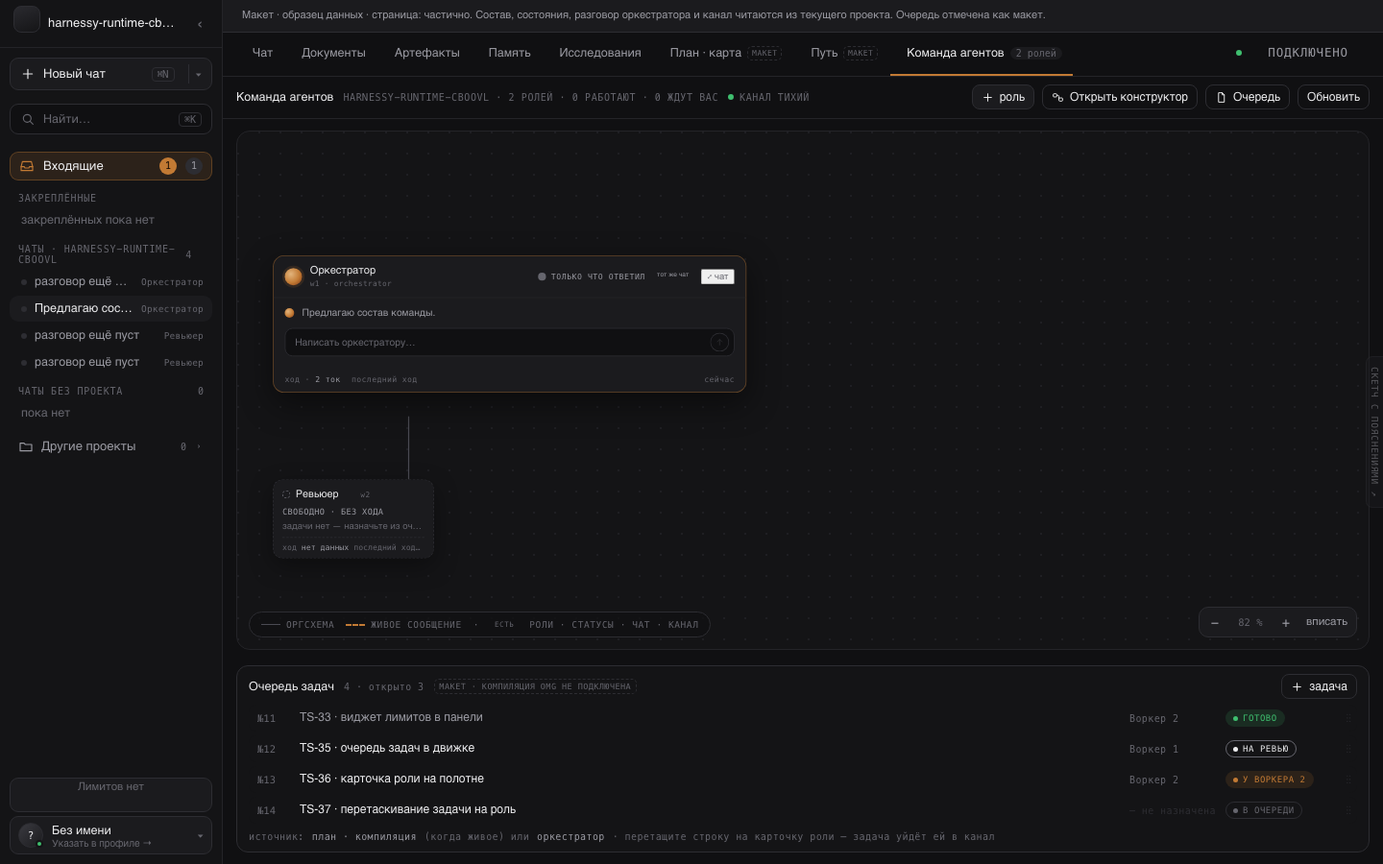
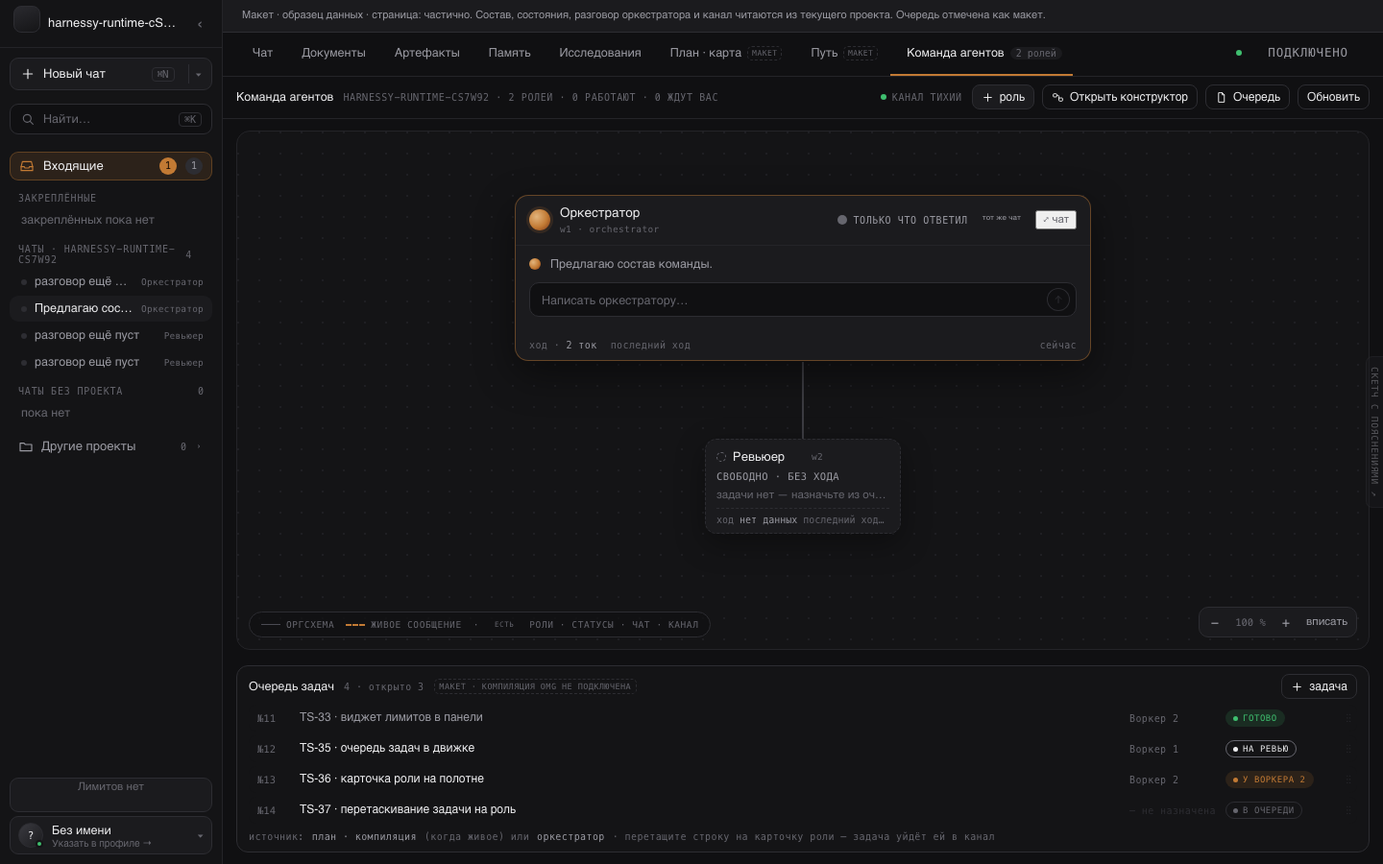
fix(ui): preserve responsive state and keyboard navigation

diff --git a/ui/deploy/cx.js b/ui/deploy/cx.js
@@ -49,11 +49,11 @@
     if(box.__cx.ta) box.__cx.ta.placeholder=p&&!isRoom(p)?'Написать: '+L.paneName(p)+'…':'Написать сообщение…'; }
   function setBusy(on){ document.querySelectorAll('.cx-go').forEach(g=>{ if(g.classList.contains('busy')===!!on) return; const p=seat();g.classList.toggle('busy',!!on); g.title=on?'Остановить · Esc':H.on&&!(p&&p.model)?'выберите модель: у разговора нет сохранённой настройки':'Отправить · Enter'; g.innerHTML=on?'<i class="sq"></i>':svg('up');
     const box=g.closest('.box'), ta=box&&box.__cx&&box.__cx.ta,state=L.composerState&&box?L.composerState(box):{hasContent:!!(ta&&ta.value.trim()),blocked:false}; g.classList.toggle('off',!on&&(!state.hasContent||state.blocked||H.on&&!(p&&p.model))); }); }
-  function renderAll(){ if(L.attachmentsDraw)L.attachmentsDraw();document.querySelectorAll('.box').forEach(b=>{ if(b.__cx){ build(b); render(b); } });if(L.operationsDraw)L.operationsDraw(); }
+  function renderAll(){const focused=document.activeElement?.closest('[data-cx]'),focusKey=focused?.dataset.cx,focusBox=focused&&(focused.closest('.box')||focused.parentElement?.nextElementSibling);if(L.attachmentsDraw)L.attachmentsDraw();document.querySelectorAll('.box').forEach(b=>{ if(b.__cx){ build(b); render(b); } });if(L.operationsDraw)L.operationsDraw();if(focusKey&&focusBox){const next=focusBox.querySelector('[data-cx="'+focusKey+'"]')||focusBox.previousElementSibling?.querySelector('[data-cx="'+focusKey+'"]');next?.focus({preventScroll:true})} }
 
   // ── всплывающая панель: одна, от чипа; поле внизу — открывается вверх; внутри переходы с «Назад»
   let pop=null, stack=[];
-  function close(){ if(pop){ if(pop.__models&&pop.__models.events)pop.__models.events.close(); pop.remove(); pop=null; stack=[]; } }
+  function close(restore=true){ if(pop){const anchor=restore?anchorEl():null;if(pop.__models&&pop.__models.events)pop.__models.events.close();pop.remove();pop=null;stack=[];anchor?.focus({preventScroll:true});} }
   function anchorEl(){ const b=pop.__box, k=pop.__key; let a=null;   // живой чип по ключу: после перерисовки строки прежний элемент уже не в документе
     if(b){ a=(b.previousElementSibling&&b.previousElementSibling.querySelector('[data-cx="'+k+'"]'))||b.querySelector('[data-cx="'+k+'"]'); }
     return a||(pop.__anchor&&pop.__anchor.isConnected?pop.__anchor:null); }
@@ -63,13 +63,23 @@
     let left=l; if(l+pw>mw-12) left=l+w-pw; left=Math.max(12,Math.min(left,mw-pw-12));
     let top=t-8-ph; if(top<12) top=t+h+8; if(top+ph>mh-12) top=Math.max(12,mh-ph-12);   // вверх от строки; не влезло — вниз; и никогда за пределы кадра
     pop.style.left=left+'px'; pop.style.top=top+'px'; }
-  function open(anchor,k){ close(); const m=anchor.closest('.main')||document.body; pop=document.createElement('div'); pop.className='cx-pop'; m.appendChild(pop); pop.__anchor=anchor; pop.__box=anchor.closest('.box')||(anchor.parentElement&&anchor.parentElement.nextElementSibling); pop.__key=anchor.dataset.cx; pop.__binding=L.sendBinding(); pop.__settingsBinding=seat()&&seat().settingsBinding&&{...seat().settingsBinding}; stack=[k]; draw(); if(k==='model')void loadModels(pop); if(k==='role'&&H.on&&L.proposalsFetch)void L.proposalsFetch(); }
+  function open(anchor,k){ close(false); const m=anchor.closest('.main')||document.body; pop=document.createElement('div'); pop.className='cx-pop'; m.appendChild(pop); pop.__anchor=anchor; pop.__box=anchor.closest('.box')||(anchor.parentElement&&anchor.parentElement.nextElementSibling); pop.__key=anchor.dataset.cx; pop.__binding=L.sendBinding(); pop.__settingsBinding=seat()&&seat().settingsBinding&&{...seat().settingsBinding}; stack=[k]; draw(); if(k==='model')void loadModels(pop); if(k==='role'&&H.on&&L.proposalsFetch)void L.proposalsFetch(); }
   function nav(k){ stack.push(k); draw(); if(k==='model')void loadModels(pop); if(k==='role'&&H.on&&L.proposalsFetch)void L.proposalsFetch(); } function back(){ stack.pop(); draw(); }
-  function draw(){ if(!pop) return; const k=stack[stack.length-1]; pop.innerHTML=(stack.length>1?'<div class="cx-hd back" data-cx-back>'+svg('back')+'<span>'+esc(TITLES[k]||'')+'</span></div>':'')+VIEWS[k](); place();
-    const f=pop.querySelector('input.cx-find'); if(f){ f.addEventListener('input',()=>filter(f)); if(f.classList.contains('cx-path'))f.addEventListener('keydown',e=>{if(e.key==='Enter'&&!e.isComposing){e.preventDefault();return submitProjectMenu(!!pop.querySelector('[data-cx-mkdir]'))}}); setTimeout(()=>f.focus(),0); } }
+  function menuItems(){if(!pop)return [];return [...pop.querySelectorAll('.cx-row,[data-cx-back],input,button,a[href]')].filter(node=>{if(node.disabled||node.classList.contains('dis'))return false;const row=node.closest('.cx-row');if(row&&row!==node)return false;for(let p=node;p&&p!==pop;p=p.parentElement){if(p.hidden||p.hasAttribute('hidden')||p.style.display==='none'||p.classList.contains('cx-sub')&&!p.parentElement.classList.contains('open'))return false}return true})}
+  const menuKey=node=>node&&JSON.stringify([node.tagName,node.dataset]);
+  function draw(){if(!pop)return;const k=stack[stack.length-1],focus=pop.contains(document.activeElement)&&pop.__view===k?menuKey(document.activeElement):null;pop.__view=k;
+    pop.innerHTML=(stack.length>1?'<div class="cx-hd back" data-cx-back>'+svg('back')+'<span>'+esc(TITLES[k]||'')+'</span></div>':'')+VIEWS[k]();pop.setAttribute('role','dialog');pop.setAttribute('aria-label',TITLES[k]||'Меню');pop.setAttribute('tabindex','-1');
+    pop.querySelectorAll('.cx-row,[data-cx-back]').forEach(node=>{if(!node.matches('button,a'))node.setAttribute('role','button');node.setAttribute('tabindex',node.disabled||node.classList.contains('dis')?'-1':'0');node.setAttribute('aria-disabled',String(!!node.disabled||node.classList.contains('dis')))});place();
+    const f=pop.querySelector('input.cx-find');if(f){f.addEventListener('input',()=>filter(f));if(f.classList.contains('cx-path'))f.addEventListener('keydown',e=>{if(e.key==='Enter'&&!e.isComposing){e.preventDefault();return submitProjectMenu(!!pop.querySelector('[data-cx-mkdir]'))}})}
+    const items=menuItems();(items.find(node=>focus&&menuKey(node)===focus)||f||items[0]||pop).focus({preventScroll:true});
+  }
   function filter(inp){ const q=inp.value.trim().toLowerCase(); pop.querySelectorAll('[data-q]').forEach(el=>{ el.style.display=!q||el.dataset.q.toLowerCase().includes(q)?'':'none'; }); if(q) pop.querySelectorAll('.cx-grp').forEach(g=>g.classList.add('open')); }
-  document.addEventListener('click',e=>{ if(pop&&!pop.contains(e.target)&&!e.target.closest('[data-cx]')) close(); },true);
-  addEventListener('keydown',e=>{ if(e.key==='Escape'&&pop) close(); });
+  document.addEventListener('click',e=>{ if(pop&&!pop.contains(e.target)&&!e.target.closest('[data-cx]')) close(false); },true);
+  addEventListener('keydown',e=>{if(!pop||e.defaultPrevented||e.isComposing)return;if(e.key==='Escape'){e.preventDefault();close();return}if(!pop.contains(e.target))return;
+    const items=menuItems(),index=items.indexOf(e.target),editing=e.target.matches('input,textarea');
+    if(['Tab','ArrowDown','ArrowUp'].includes(e.key)||!editing&&['Home','End'].includes(e.key)){e.preventDefault();if(!items.length){pop.focus();return}const next=e.key==='Home'?0:e.key==='End'?items.length-1:(index+(e.key==='ArrowUp'||e.key==='Tab'&&e.shiftKey?-1:1)+items.length)%items.length;items[next].focus();items[next].scrollIntoView?.({block:'nearest'});return}
+    if(!editing&&['Enter',' '].includes(e.key)&&items.includes(e.target)&&!e.target.matches('button,a')){e.preventDefault();(e.target.querySelector('[data-cx-tog]')||e.target).click()}
+  });
 
   const TITLES={folder:'Проект',mkdir:'Создать проект',opendir:'Открыть проект',role:'Собеседник',switch:'Переключение',chat:'Чаты',newchat:'Новый чат',rights:'Права',model:'Модель',effort:'Усилие',plus:'Добавить и настроить',files:'Файлы и папки',shot:'Снимок экрана',sources:'Другие источники',tools:'Инструменты и субагенты',cmds:'Команды и навыки',info:'Информация'};
   const hd=(t,r)=>'<div class="cx-hd"><span>'+t+'</span>'+(r?'<small>'+r+'</small>':'')+'</div>';
@@ -143,7 +153,7 @@
     redrawModels(panel);
   }
   function modelsStatus(){if(!pop||!pop.__models)return;if(!modelsCurrent(pop)){close();return}const state=pop.__models,stamp=modeStamp();if(stamp!==state.modes){state.modes=stamp;state.revision++}if(state.access&&accessStamp(state.access.group)!==state.access.stamp){state.access=null;state.failure='Настройки места изменились. Подтвердите полный доступ заново.'}redrawModels(pop)}
-  addEventListener('live:status',modelsStatus);addEventListener('pagehide',close);
+  addEventListener('live:status',modelsStatus);addEventListener('pagehide',()=>close(false));
   async function chooseModel(button){const panel=pop,state=panel&&panel.__models;if(!state||state.saving||!modelsCurrent(panel))return;
     const program=modelGroups(panel).find(p=>p.id===(button.dataset.cxGroup||button.dataset.cxVendor)),model=program&&program.models.find(m=>m.id===button.dataset.cxModel);
     if(!model||!modelSupport(program.vendor,model).ok)return;const revision=state.revision,modes=modeStamp();state.saving=true;state.failure='';redrawModels(panel);

diff --git a/ui/sketches/disarto/00-design-code.html b/ui/sketches/disarto/00-design-code.html
@@ -1586,7 +1586,7 @@ html[data-proto][data-page="chat"] .main>#live-waiting{max-height:min(40vh,360px
 <div class="box"><div class="cap2">так говорим · решения владельца 22.10</div><p style="margin:0;font-size:12.5px;color:var(--ink2)"><b>команда агентов</b> (вкладка проекта = полотно работы) · <b>работа команды</b> и <b>конструктор команды</b> — два экрана · член команды / роль · <b>оргсхема</b> (кто кому подчинён, серым) и <b>живое сообщение</b> (коньяком поверх) · состояния: думает · пишет · ждёт решения · ждёт соседа · молчит N мин · ошибка · <b>очередь задач</b>: № · краткое имя · кому · состояние (в очереди · у роли · на ревью · готово) · <b>режим общения</b> = «Только обсуждение» (у движка — chat) · <b>полотно команды</b> — кнопка над полем ввода, быстрый вход.</p></div>
   <div class="box"><div class="cap2">так не говорим · и плашки</div><p style="margin:0 0 10px;font-size:12.5px;color:var(--ink3)">«Стая», «место» (в интерфейсе — роль; «место в канале» — только в подписях про движок), «агент бездействует», «граф», «нода», «воркфлоу», «пайплайн», «сессия».</p><div class="rowx"><span class="tag live">есть</span><span class="tag mock">макет</span><span class="tag none">нет в движке</span></div><p class="conn-note" style="margin:8px 0 0">«есть» — роли, назначения, канал, статусы busy / waiting, модель и права у роли; «макет» — очередь из плана (компиляция OMG не подключена) и конструктор (canvas 0.4).</p></div>
 </div>
-<div class="box" style="margin-top:14px"><div class="cap2">выбранный вариант (в) · режим общения · клип 09 · адаптация TS-44</div><p style="margin:0;font-size:12.5px;color:var(--ink2)">Над полем ввода — переключатель вида <b>Чат · Команда</b>; «Команда» открывает полотно проекта. В строке прав — тумблер <b>Обсуждение</b>: включённое состояние подписано «обсуждение · проект не меняется», ответ получает чип «обсуждение». Первый пункт меню прав — «Только обсуждение» и выполняет то же действие. Выключение возвращает прежние права места; если для их восстановления нужно новое подтверждение, оно запрашивается явно. Проект выбирается только в шапке панели, чипа проекта в поле ввода нет. Внизу панели — имя из профиля владельца; при отсутствии «Без имени» ведёт в профиль.</p></div>
+<div class="box" style="margin-top:14px"><div class="cap2">выбранный вариант (в) · режим общения · клип 09 · адаптация TS-44</div><p class="conn-note">Клавиатура меню: Enter или пробел открывает меню; Tab и стрелки проходят доступные пункты, Enter выбирает. Поиск сохраняет ввод; скрытые и недоступные пункты пропускаются. Escape возвращает фокус к открывшему чипу. При обновлении панели фокус остаётся на том же чате того же проекта.</p><p class="conn-note">Шапка полотна: подпись проекта и канала сжимается с многоточием, действия остаются доступны; на узком настольном окне кнопки конструктора и очереди сокращаются до значков с полным названием в подсказке. При изменении размера полотно заново раскладывает и вписывает карточки; ввод, раскрытия и фокус сохраняются.</p><p style="margin:0;font-size:12.5px;color:var(--ink2)">Над полем ввода — переключатель вида <b>Чат · Команда</b>; «Команда» открывает полотно проекта. В строке прав — тумблер <b>Обсуждение</b>: включённое состояние подписано «обсуждение · проект не меняется», ответ получает чип «обсуждение». Первый пункт меню прав — «Только обсуждение» и выполняет то же действие. Выключение возвращает прежние права места; если для их восстановления нужно новое подтверждение, оно запрашивается явно. Проект выбирается только в шапке панели, чипа проекта в поле ввода нет. Внизу панели — имя из профиля владельца; при отсутствии «Без имени» ведёт в профиль.</p></div>
 <div class="box" style="margin-top:14px"><div class="cap2">TS-43 · длинное имя и причина недоступности</div><p class="conn-note">Название роли на рабочей карточке и в узле конструктора сокращается с «…», модель остаётся на своём месте. При обновлении неизменного состава раскрытие и фокус сохраняются у той же роли и того же текста. Полный текст доступен в title и по нажатию (также Enter / пробел); Escape или нажатие вне закрывает раскрытие. Причина недоступности — одна строка под ролью, одинаковая в меню и библиотеке; нажатие раскрывает полный текст внутри компонента, не назначая роль. Раскрытое меню роли находится поверх полотна вне обрезающей строки кнопок, целиком внутри окна; Escape закрывает его и возвращает фокус на «+ роль».</p><div class="tc-static" data-tc-long-name></div><div class="tc-static" data-tc-long-node></div><div class="tc-pmenu static"><div class="tc-role-entry"><button type="button" class="it dis" disabled>Ревьюер</button><div class="tc-reason" data-tc-long-reason></div></div></div></div>
 <div class="two" data-constructor-editor-spec style="margin-top:14px">
   <div class="box tc-instruction"><div class="cap2">инструкция роли · TS-39.2 · текст и квитанция</div><b>Ревьюер · инструкция</b><p>Текст применяется со следующего хода. Этот файл также используют: Тестер.</p><textarea aria-label="Инструкция роли">Проверяй результат и называй воспроизводимые дефекты.</textarea><label class="tc-shared"><input type="checkbox"> Изменить общий файл для обеих ролей</label><div class="tc-editor-actions"><button class="btn sm p">Сохранить инструкцию</button><button class="btn sm ghost">Перечитать файл</button></div><p role="status">Есть несохранённые изменения.</p><div class="cap2">состояния · одна строка под редактором</div><p>Сохранено · применяется со следующего хода.</p><p>Сохраняю отправленную редакцию… Есть несохранённые изменения.</p><p>Сохранение не выполнено, черновик сохранён, повторите.</p><p>Файл изменился. Черновик сохранён — перечитайте файл перед повторным сохранением.</p><p class="conn-note">«Сохранено» относится только к подтверждённому тексту. Ввод после отправки остаётся несохранённым. При переходе в другой проект текст хранится в настройках окна по проекту и роли; новая instance требует свежей квитанции движка перед записью.</p></div>

diff --git a/ui/deploy/proto.js b/ui/deploy/proto.js
@@ -123,7 +123,7 @@
   ];
   function projectMenu(project){const name=html(project&&project.name||projectName()),path=html(project&&project.path||state.project.path||'');return '<div class="ps2-pmenu"><div class="hd">'+name+'<small>в проекте '+name+'</small></div>'+projectItems(project).map((it,i)=>(i===1?'<hr>':'')+'<div class="it'+(it[3]?' acc':'')+'" data-go="'+it[0]+'" data-project-path="'+path+'">'+ico(it[0])+'<span class="t">'+it[1]+'</span>'+it[2]+'</div>').join('')+'<div class="ft">пункты открывают страницы этого проекта</div></div>'}
   const projectRow=p=>'<div class="ps-chat ps2-prow" data-ps2-project-path="'+html(p.path||'')+'" data-ps2-menu-key="'+html(p.path||'')+'" role="button" tabindex="0" aria-expanded="'+projectFolders.has(p.path)+'" title="Раскрыть чаты · двойной клик открывает проект">'+ico('folder')+'<span class="s">'+html(p.name)+'</span><span class="m">'+(Number.isSafeInteger(p.seats)?p.seats+' роли':'')+'</span><span class="pm">›</span><button type="button" class="ps2-menu-button" data-ps2-project-menu aria-label="Меню проекта">⋯</button>'+projectMenu(p)+'</div>'+projectChats(p);
-  const chatRow=(c,pinned)=>{const bound=pinned&&c.kind==='chat'&&c.path,attrs=bound?' data-pin-chat="'+html(c.id||'')+'" data-pin-path="'+html(c.path)+'" data-cur="'+(c.current||c.path===state.project.path?1:0)+'"':' data-chat="'+html(c.id||'')+'" data-pane="'+html(c.pane||'room')+'"';return '<div class="ps-chat'+(c.active?' act':'')+(c.state?' '+c.state:'')+(pinned?' pin':'')+'"'+attrs+'><i></i><span class="s">'+html(c.title||'разговор ещё пуст')+'</span>'+(c.role||c.label?'<span class="m">'+html(c.role||c.label)+'</span>':'')+'</div>'};
+  const chatRow=(c,pinned)=>{const bound=pinned&&c.kind==='chat'&&c.path,attrs=bound?' data-pin-chat="'+html(c.id||'')+'" data-pin-path="'+html(c.path)+'" data-cur="'+(c.current||c.path===state.project.path?1:0)+'"':' data-chat="'+html(c.id||'')+'" data-pane="'+html(c.pane||'room')+'"';return '<div class="ps-chat'+(c.active?' act':'')+(c.state?' '+c.state:'')+(pinned?' pin':'')+'"'+attrs+' data-ps2-chat-key="'+html(JSON.stringify([c.path||state.project.path||'',c.id||'',c.pane||'room',!!pinned]))+'"><i></i><span class="s">'+html(c.title||'разговор ещё пуст')+'</span>'+(c.role||c.label?'<span class="m">'+html(c.role||c.label)+'</span>':'')+'</div>'};
   function inboxRow(){const c=inboxCounts(state.inbox),cls=c.need?' has':c.info?' info':' zero',unavailable=state.inbox&&state.inbox.unavailable||!state.live;return '<div class="ps2-inbox'+cls+(ps2Mode==='inbox'?' on':'')+'" data-ps2-mode="inbox" data-ps2-action-mode title="Входящие: '+c.need+' требуют действия · '+c.info+' к сведению">'+ico('inbox')+'<span class="t">Входящие</span>'+(c.need?'<span class="b">'+c.need+'</span>':'')+(c.info?'<span class="b2">'+c.info+'</span>':'')+(unavailable?tag('нет данных'):state.inbox.mock?tag('макет'):'')+'</div>'}
   function limits(){const attr=' data-spend-limits role="button" tabindex="0" aria-label="Все лимиты подписок"';if(!state.limits||!state.limits.length)return '<div class="ps2-lim none"'+attr+'>'+(state.live?'Лимитов нет':'Лимиты недоступны')+'</div>';return '<div class="ps2-lim"'+attr+' title="Осталось · все лимиты">'+state.limits.slice(0,2).map(l=>{const p=Math.max(0,Math.min(100,Number(l.remaining)||0)),tone=p<=10?' bad':p<=25?' warn':'';return '<span class="v'+tone+'" style="--p:'+p+'%"><span>'+html(l.name)+'</span><b>'+p.toLocaleString('ru-RU')+' %</b><i>'+html(l.period||'')+'</i><u></u></span>'}).join('')+'</div>'}
   function profileMenu(){
@@ -168,7 +168,7 @@
   function renderMobileProjects(){const block=document.querySelector('[data-ps2-mobile-projects]');if(block)block.innerHTML='<div class="m-g">проекты</div>'+others()}
   function projectChats(p){if(!projectFolders.has(p.path))return '';const rows=Array.isArray(p.chats)?p.chats:null;return '<div class="ps2-project-chats" data-ps2-project-chats="'+html(p.path)+'">'+(rows?rows.map(chat=>chatRow({...chat,path:p.path,current:!!p.current,kind:'chat'},true)).join('')||'<div class="ps-chat more">чатов пока нет</div>':'<div class="ps-chat more">'+html(p.chatError||'Чаты не прочитаны')+'</div>')+'</div>'}
 
-  function renderSide(){const expanded=expandedPanel(),menuPath=projectAnchor?.dataset.ps2MenuKey,mobileMenu=!!projectAnchor?.closest('.m-drawer'),hideTimer=projectHideTimer;renderMobileProjects();projectHideTimer=null;closeProjectMenu();document.documentElement.dataset.ps2Mode=ps2Mode;document.documentElement.dataset.ps2Panel=expanded?'open':'closed';document.querySelectorAll('.frame > .app, .frame > .stage').forEach(app=>{const aside=app.querySelector(':scope > aside.side');if(!aside)return;aside.className=expanded?'side ps ps2-mode':'side ps rail';aside.innerHTML=expanded?modePanel():rail()});keyboardControls();fit();if(menuPath){const row=[...document.querySelectorAll('[data-ps2-menu-key]')].find(n=>n.dataset.ps2MenuKey===menuPath&&!!n.closest('.m-drawer')===mobileMenu);if(row){showProjectMenu(row);projectHideTimer=hideTimer}else clearTimeout(hideTimer)}else clearTimeout(hideTimer)}
+  function renderSide(){const focus=document.activeElement?.closest('[data-ps2-chat-key]'),focusKey=focus?.dataset.ps2ChatKey,focusMobile=!!focus?.closest('.m-drawer');const expanded=expandedPanel(),menuPath=projectAnchor?.dataset.ps2MenuKey,mobileMenu=!!projectAnchor?.closest('.m-drawer'),hideTimer=projectHideTimer;renderMobileProjects();projectHideTimer=null;closeProjectMenu();document.documentElement.dataset.ps2Mode=ps2Mode;document.documentElement.dataset.ps2Panel=expanded?'open':'closed';document.querySelectorAll('.frame > .app, .frame > .stage').forEach(app=>{const aside=app.querySelector(':scope > aside.side');if(!aside)return;aside.className=expanded?'side ps ps2-mode':'side ps rail';aside.innerHTML=expanded?modePanel():rail()});keyboardControls();fit();if(focusKey){const next=[...document.querySelectorAll('[data-ps2-chat-key]')].find(n=>n.dataset.ps2ChatKey===focusKey&&!!n.closest('.m-drawer')===focusMobile);next?.focus({preventScroll:true})}if(menuPath){const row=[...document.querySelectorAll('[data-ps2-menu-key]')].find(n=>n.dataset.ps2MenuKey===menuPath&&!!n.closest('.m-drawer')===mobileMenu);if(row){showProjectMenu(row);projectHideTimer=hideTimer}else clearTimeout(hideTimer)}else clearTimeout(hideTimer)}
   function togglePanel(){panelOpen=!panelOpen;try{localStorage.setItem(PS2_PANEL_KEY,panelOpen?'open':'closed')}catch(e){}renderSide()}
   function setMode(mode){if(!['chats','inbox','project','team'].includes(mode))return;if(innerWidth<1100){ps2Mode=mode;try{localStorage.setItem(PS2_MODE_KEY,mode)}catch(e){}location.href=PAGES[({chats:'chat',inbox:'inbox',project:'doc',team:'swarm'})[mode]];return}if(ps2Mode===mode&&panelOpen)panelOpen=false;else{ps2Mode=mode;panelOpen=true}try{localStorage.setItem(PS2_MODE_KEY,ps2Mode);localStorage.setItem(PS2_PANEL_KEY,panelOpen?'open':'closed')}catch(e){}renderSide()}
   function setData(next){if(!next||typeof next!=='object')return;for(const key of ['project','inbox','pinned','chats','rooms','projects','sections','profile','autopilot','limits','live'])if(Object.prototype.hasOwnProperty.call(next,key))state[key]=next[key];renderSide();renderWorkspaceHeader()}

diff --git a/ui/deploy/team-live.js b/ui/deploy/team-live.js
@@ -40,7 +40,7 @@
   function messageHTML(row){const text=esc(short(row.text));return row.role==='me'?'<div class="me">'+text+'</div>':'<div class="ai"><div><p>'+text+'</p></div></div>'}
   function orchHTML(row){if(!row)return '<div class="tc-orch free" data-key="missing-orchestrator"><div class="hd"><span class="orb"></span><div><b>Оркестратор не назначен</b><small>назначьте из разговора без роли</small></div><span class="st">'+TC.tag('live','нет места')+'</span></div><div class="chat"><p>Команда работает без оркестратора. Доступное назначение показано в меню «+ роль».</p></div></div>';const messages=row.messages.slice(-4).map(messageHTML).join('')||'<div class="ai"><div><p>В этом чате ещё нет реплик.</p></div></div>';return '<div class="tc-orch '+row.st+'" data-key="'+esc(row.id)+'" data-name="'+esc(row.name)+'" data-gen="'+esc(row.gen)+'"><div class="hd"><span class="orb"></span><div><b>'+esc(row.name)+'</b><small>'+esc(row.model)+' · '+esc(row.role)+'</small></div><span class="st"><span class="tc-o '+row.st+'"></span>'+esc(row.stText)+'</span>'+TC.tag('live','тот же чат')+'<button type="button" class="open" data-team-open-chat data-nodrag>⤢ чат</button></div><div class="chat" data-nodrag>'+messages+'</div><div class="in" data-nodrag><textarea rows="1" data-team-chat-input placeholder="Написать оркестратору…"></textarea><button type="button" class="go" data-team-send aria-label="Отправить">'+icon('up')+'</button></div><div class="ft"><span>ход · <b>'+esc(row.spend)+'</b></span><span>'+esc(row.tok)+'</span><span class="r">'+esc(row.at)+'</span></div><span class="drophint">отдать оркестратору на раздачу</span></div>'}
   const cardHTML=row=>TC.card(row);
-  function workShell(){content(tabs()+'<div class="ps2-tbar"><b>Команда агентов</b><span class="m" data-team-summary>Читаю состав…</span><span class="st"><i></i><span data-team-channel>канал читается</span></span><span class="r"><span class="tc-plus" data-team-plus-wrap><button type="button" class="btn sm" data-team-plus>'+icon('new')+'роль</button>'+roleMenu()+'</span><button type="button" class="btn sm ghost" data-team-constructor>'+icon('cons')+'Открыть конструктор</button><button type="button" class="btn sm ghost" data-team-queue>'+icon('file')+'Очередь</button><button type="button" class="btn sm ghost" data-team-refresh>Обновить</button></span></div><div class="tc-work"><div class="om-canvas tc" data-canvas><div class="om-view" data-view><svg class="om-edges" data-edges></svg><div data-nodes></div></div>'+zoom()+'<div class="tc-legend"><span><i></i>оргсхема</span><span><i class="live"></i>живое сообщение</span><span>·</span>'+TC.tag('live','есть')+'<span>роли · статусы · чат · канал</span></div></div><div data-team-queue-preview></div></div>');
+  function workShell(){content(tabs()+'<div class="ps2-tbar"><b>Команда агентов</b><span class="m" data-team-summary>Читаю состав…</span><span class="st"><i></i><span data-team-channel>канал читается</span></span><span class="r"><span class="tc-plus" data-team-plus-wrap><button type="button" class="btn sm" data-team-plus>'+icon('new')+'роль</button>'+roleMenu()+'</span><button type="button" class="btn sm ghost" data-team-constructor aria-label="Открыть конструктор" title="Открыть конструктор">'+icon('cons')+'<span class="tc-action-text">Открыть конструктор</span></button><button type="button" class="btn sm ghost" data-team-queue aria-label="Очередь" title="Очередь">'+icon('file')+'<span class="tc-action-text">Очередь</span></button><button type="button" class="btn sm ghost" data-team-refresh>Обновить</button></span></div><div class="tc-work"><div class="om-canvas tc" data-canvas><div class="om-view" data-view><svg class="om-edges" data-edges></svg><div data-nodes></div></div>'+zoom()+'<div class="tc-legend"><span><i></i>оргсхема</span><span><i class="live"></i>живое сообщение</span><span>·</span>'+TC.tag('live','есть')+'<span>роли · статусы · чат · канал</span></div></div><div data-team-queue-preview></div></div>');
     S.engine=TC.engine(root,{nodes:()=>S.derived?orchHTML(S.derived.orch)+S.derived.roles.map(cardHTML).join(''):'',edges:()=>S.derived?S.derived.edges:[],path:TC.workPath,padBottom:70,layout:(G,W,Hh,layer)=>{const derived=S.derived||{orch:null,roles:[]},mobile=W<650,orch=derived.orch,orchEl=layer.querySelector('.tc-orch'),ow=mobile?Math.max(240,W-32):Math.min(600,W-32),oh=orchEl&&orchEl.offsetHeight||240;G.rects[orch?orch.id:'missing-orchestrator']={x:16+(W-32-ow)/2,y:16,w:ow,h:oh};const roles=derived.roles,cw=mobile?Math.max(204,W-32):204,cols=mobile?1:Math.max(1,Math.min(4,Math.floor((W-24)/(cw+20)))),gap=mobile?14:Math.max(18,Math.min(42,(W-cols*cw-24)/Math.max(1,cols-1))),rows=Math.ceil(roles.length/cols),startY=oh+96;roles.forEach((row,index)=>{const col=index%cols,line=Math.floor(index/cols),used=Math.min(cols,roles.length-line*cols),lineWidth=used*cw+(used-1)*gap,x0=(W-lineWidth)/2;G.rects[row.id]={x:x0+col*(cw+gap),y:startY+line*142,w:cw,h:120}});const canvas=root.querySelector('[data-canvas]');if(canvas)canvas.style.minHeight=Math.max(360,startY+rows*142+50)+'px'}});
     drawQueuePreview();
   }

diff --git a/ui/deploy/live.js b/ui/deploy/live.js
@@ -2082,9 +2082,16 @@
     });existing.filter(box=>!used.has(box)).forEach(box=>box.remove());
   }
   function proposalsReset(){TP.generation++;TP.project=null;TP.data=[];TP.error=null;TP.loading=false;TP.queued=false;TP.sending=false;TP.focus=null;TP.focusBinding=null;TP.kinds={};TP.expanded={};proposalsDraw()}
+  let pendingProposalLink=null;
+  const proposalLinkCurrent=link=>bindingCurrent(link.binding)&&['project','pane','chat'].every(key=>link.binding[key]===sendBinding()[key]);
+  function clearProposalLink(link){if(pendingProposalLink!==link)return;if(typeof location!=='undefined'&&location.hash===link.hash){if(typeof history!=='undefined'&&typeof history.replaceState==='function')history.replaceState(history.state,'',(location.pathname||'')+(location.search||''));else location.hash=''}pendingProposalLink=null}
+  function readProposalLink(){const hash=typeof location!=='undefined'&&typeof location.hash==='string'?location.hash:'',match=PAGE==='chat'&&hash.match(/^#team=([A-Za-z0-9._-]+)$/);if(!match)return null;
+    if(!pendingProposalLink||pendingProposalLink.hash!==hash)pendingProposalLink={hash,id:match[1],binding:sendBinding()};const link=pendingProposalLink;if(!proposalLinkCurrent(link)){clearProposalLink(link);return null}return link;
+  }
+  function applyProposalLink(link){if(!link||pendingProposalLink!==link)return;if(!proposalLinkCurrent(link)){clearProposalLink(link);return}const q=TP.data.find(q=>q.proposalId===link.id&&q.from===link.binding.pane);if(!q)return;TP.focus=q.proposalId;TP.focusBinding=link.binding;TP.expanded[q.proposalId+':'+q.version]=true;clearProposalLink(link)}
   async function proposalsFetch(){if(!H.on||H.snapshotOnly||leftPage||!['chat','new','now','first'].includes(PAGE))return false;if(TP.project!==H.project){proposalsReset();TP.project=H.project}if(TP.loading){TP.queued=true;return false}
-    const project=TP.project,generation=TP.generation;TP.loading=true;
-    try{const r=await api('/api/seats/proposals');if(!proposalCurrent(project,generation))return false;if(!r||!r.ok||r.project!==project||!Array.isArray(r.proposals)||!r.proposals.every(proposalValid))throw Error(r&&r.error||'Не удалось прочитать состав команды');TP.data=r.proposals;TP.error=null;const proposalHash=typeof location!=='undefined'&&typeof location.hash==='string'&&location.hash.match(/^#team=([A-Za-z0-9._-]+)$/),wanted=PAGE==='chat'&&proposalHash?proposalHash[1]:null;if(wanted&&TP.data.some(q=>q.proposalId===wanted&&q.from===S.ui.pane)){TP.focus=wanted;TP.focusBinding=sendBinding();const q=TP.data.find(q=>q.proposalId===wanted);TP.expanded[wanted+':'+q.version]=true;}for(const q of TP.data)q.seats.forEach((_s,i)=>{if(q.ownerSeats&&q.ownerSeats[i])delete TP.kinds[proposalKindKey(q,i)]});if(typeof refreshStatus==='function')await refreshStatus();if(proposalCurrent(project,generation))operationsTeams(TP.data)}
+    const project=TP.project,generation=TP.generation,link=readProposalLink();TP.loading=true;
+    try{const r=await api('/api/seats/proposals');if(!proposalCurrent(project,generation))return false;if(!r||!r.ok||r.project!==project||!Array.isArray(r.proposals)||!r.proposals.every(proposalValid))throw Error(r&&r.error||'Не удалось прочитать состав команды');TP.data=r.proposals;TP.error=null;applyProposalLink(link);for(const q of TP.data)q.seats.forEach((_s,i)=>{if(q.ownerSeats&&q.ownerSeats[i])delete TP.kinds[proposalKindKey(q,i)]});if(typeof refreshStatus==='function')await refreshStatus();if(proposalCurrent(project,generation))operationsTeams(TP.data)}
     catch(e){if(!proposalCurrent(project,generation))return false;TP.error=e.message||'Нет связи с движком';TP.data=[];for(const op of OPS.items.values())if(op.kind==='seats')operationEnd(op,TP.error)}
     if(!proposalCurrent(project,generation))return false;TP.loading=false;proposalsDraw();if(KN.data)void knowledgeFetch();if(TP.queued){TP.queued=false;void proposalsFetch()}return !TP.error;
   }

diff --git a/packages/api/src/models-ui.test.ts b/packages/api/src/models-ui.test.ts
@@ -397,3 +397,24 @@ test('23d: provider menu shows engine connection and typed unavailable cause, ke
 test('23d: menu login failure class, not free-form reason, labels unavailable providers',async()=>{
  const v=ui();await v.open();const next:any=catalogue();next.providers[0].login={state:'error',failure:'unresponsive',reason:'REGION BLOCKED'};await v.providers(next);assert.match(v.find('[data-cx-program="claude"] .proxy-model-path').textContent,/не отвечает/);assert.doesNotMatch(v.find('[data-cx-program="claude"] .proxy-model-path').textContent,/регион|блокиров/);assert.equal(v.select('claude','shared').disabled,false);
 });
+
+
+for(const page of ['new','chat','first'])test('TS-44 r2: '+page+' composer menu chooses rights by keyboard and Escape returns to the live chip',async()=>{
+ const v=ui({page});v.find('[data-cx="rights"]').focus();await v.find('[data-cx="rights"]').emit('click');
+ const first=v.find('[data-cx-mode="chat"]');assert.equal(v.document.activeElement,first);assert.equal(first.getAttribute('tabindex'),'0');
+ await first.emit('keydown',{key:'ArrowDown'});assert.equal(v.document.activeElement,v.find('[data-cx-mode="read"]'));
+ await v.document.activeElement!.emit('keydown',{key:'Home'});assert.equal(v.document.activeElement,first);
+ (first as any).click=()=>first.emit('click');await first.emit('keydown',{key:'Enter'});await v.flush();assert.equal(v.H.pane.mode,'chat');
+ await v.document.activeElement!.emit('keydown',{key:'Escape'});assert.equal(v.document.querySelector('.cx-pop'),null);assert.equal(v.document.activeElement,v.find('[data-cx="rights"]'));
+ v.ctx.CX.render();assert.equal(v.document.activeElement,v.find('[data-cx="rights"]'));
+});
+
+test('TS-44 r2: composer search, filtered actions, nested menu and Tab form one keyboard path',async()=>{
+ const v=ui();await v.find('[data-cx="plus"]').emit('click');const search=v.find('.cx-find');assert.equal(v.document.activeElement,search);
+ search.value='команды';await search.emit('input');await search.emit('keydown',{key:'ArrowDown'});
+ const action=v.find('[data-cx-nav="cmds"]');assert.equal(v.document.activeElement,action);(action as any).click=()=>action.emit('click');await action.emit('keydown',{key:'Enter'});
+ const back=v.find('[data-cx-back]');const nextSearch=v.find('.cx-find');assert.equal(v.document.activeElement,nextSearch);
+ await nextSearch.emit('keydown',{key:'Tab',shiftKey:true});assert.equal(v.document.activeElement,back);
+ (back as any).click=()=>back.emit('click');await back.emit('keydown',{key:' '});assert.equal(v.document.activeElement,v.find('.cx-find'));
+ await v.document.activeElement!.emit('keydown',{key:'Escape'});assert.equal(v.document.activeElement,v.find('[data-cx="plus"]'));
+});

diff --git a/packages/api/src/proposals-ui.test.ts b/packages/api/src/proposals-ui.test.ts
@@ -107,3 +107,18 @@ for(const legacy of [false,true])test('TS-41 r2: '+(legacy?'legacy':'turn-bound'
  v.context.S.chat=[];v.f.show(proposal.proposalId);assert.ok(v.document.querySelector('[data-team-proposal]'),'explicit preview is allowed');
  v.H.active.analyst='another-chat';v.f.sync();assert.equal(v.document.querySelector('[data-team-proposal]'),null,'focused preview is bound to its chat');
 });
+
+
+for(const action of ['collapse','switch'] as const)test('TS-44 r2: inbox deep link is consumed once and preserves '+action,async()=>{
+ const proposal={...q(),turnInstanceId:'proposal-turn'},v=ui(async()=>({ok:true,project:'/a',proposals:[proposal]}));v.context.location={hash:'#team='+proposal.proposalId};await v.f.fetch();assert.equal(v.context.location.hash,'');assert.equal(v.find('[data-team-toggle]').getAttribute('aria-expanded'),'true');
+ if(action==='collapse')await v.find('[data-team-toggle]').emit('click');else {v.H.active.room='different-chat';v.context.S.chat=[];v.f.sync()}
+ await v.f.fetch();if(action==='collapse')assert.equal(v.find('[data-team-toggle]').getAttribute('aria-expanded'),'false');else assert.equal(v.document.querySelector('[data-team-proposal]'),null);
+});
+
+test('TS-44 r2: a deep link binds before HTTP, and cannot apply to a chat selected during the read',async()=>{
+ const gate=deferred<any>(),proposal={...q(),turnInstanceId:'proposal-turn'},v=ui(async()=>gate.promise);v.context.location={hash:'#team='+proposal.proposalId};const read=v.f.fetch();v.H.active.room='other-chat';gate.resolve({ok:true,project:'/a',proposals:[proposal]});await read;assert.equal(v.document.querySelector('[data-team-proposal]'),null);assert.equal(v.context.location.hash,'');await v.f.fetch();assert.equal(v.document.querySelector('[data-team-proposal]'),null);
+});
+
+test('TS-44 r2: a failed read can retry the pending deep link in its original chat',async()=>{
+ let failed=true;const proposal={...q(),turnInstanceId:'proposal-turn'},v=ui(async()=>failed?{ok:false,error:'Нет связи'}:{ok:true,project:'/a',proposals:[proposal]});v.context.location={hash:'#team='+proposal.proposalId};await v.f.fetch();assert.equal(v.context.location.hash,'#team='+proposal.proposalId);failed=false;await v.f.fetch();assert.equal(v.context.location.hash,'');assert.equal(v.find('[data-team-toggle]').getAttribute('aria-expanded'),'true');
+});

diff --git a/ui/sketches/disarto/team-canvas.js b/ui/sketches/disarto/team-canvas.js
@@ -155,7 +155,11 @@ window.TC=(function(){
     const VP=OMCORE.viewport(canvas,view,{box:box,blank:()=>[canvas,view,svg,layer],ignore:'[data-zoom],[data-nodrag],.tc-legend',kmin:.4,
       items:t=>{ const el=t.closest('[data-key]'); if(!el||!el.closest('[data-nodes]')||el.dataset.key==='empty') return null; return [{el:el,r:G.rects[el.dataset.key],key:el.dataset.key}]; },
       onMove:()=>drawEdges(), onEnd:()=>{ if(o.onEnd) o.onEnd(G); }, onView:V=>{ const z=root.querySelector('[data-zpct]'); if(z) z.textContent=Math.round(V.k*100)+' %'; }});
-    function render(fit){ layer.innerHTML=o.nodes(); const W=canvas.clientWidth||900, H=canvas.clientHeight||600; o.layout(G,W,H,layer); place(); measure(); drawEdges(); if(fit!==false) VP.fit(); }
+    let layoutWidth=0,layoutHeight=0;
+    function layout(fit){const W=canvas.clientWidth||900,H=canvas.clientHeight||600;o.layout(G,W,H,layer);place();measure();drawEdges();layoutWidth=canvas.clientWidth||900;layoutHeight=canvas.clientHeight||600;if(fit!==false)VP.fit()}
+    function render(fit){layer.innerHTML=o.nodes();layout(fit)}
+    function resize(){if(!canvas.isConnected){observer?.disconnect();if(typeof removeEventListener==='function')removeEventListener('resize',resize);return}if((canvas.clientWidth||900)!==layoutWidth||(canvas.clientHeight||600)!==layoutHeight)layout()}
+    const observer=typeof ResizeObserver==='function'?new ResizeObserver(resize):null;observer?.observe(canvas);addEventListener('resize',resize);
     root.addEventListener('click',e=>{ const t=e.target; if(t.closest('aside.side')) return; if(VP.takeSuppress()) return;
       const z=t.closest('[data-z]'); if(z){ const W=VP.cw(),H=VP.chh(); if(z.dataset.z==='fit') VP.fit(); else VP.zoomAt(W/2,H/2,z.dataset.z==='in'?1.25:.8); return; }
       if(o.onClick&&o.onClick(t)===true) return;

diff --git a/packages/api/src/team-live-ui.test.ts b/packages/api/src/team-live-ui.test.ts
@@ -289,3 +289,12 @@ test('TS-44: every canonical role has an icon and constructor rights use owner-f
  for(const icon of icons)assert.match(icon,/<(?:path|circle|rect)\b/);assert.equal(new Set(icons).size,7);
  const rights=v.find('[data-team-mode]');assert.equal(JSON.parse(rights.dataset.options!).find((row:any)=>row.value==='read').label,'Чтение папки');assert.equal(rights.value,'read');
 });
+
+
+for(const mode of ['work','constructor'] as const)test('TS-44 r2: '+mode+' canvas relayouts both ways without replacing focused controls or drafts',async()=>{
+ const v=teamUi(mode);await v.settle();const engine=v.context.TEAM_LIVE.state.engine,canvas=v.find('[data-canvas]');
+ Object.assign(canvas,{clientWidth:900,clientHeight:800});await v.window.emit('resize');const wide=engine.G.rects.worker.x;
+ const control=v.find(mode==='work'?'[data-team-chat-input]':'[data-team-pane="worker"] [data-team-model]');control.value='Черновик';control.focus();
+ Object.assign(canvas,{clientWidth:340,clientHeight:800});await v.window.emit('resize');const narrow=engine.G.rects.worker.x;assert.ok(narrow<wide);assert.equal(v.document.activeElement,control);assert.equal(control.value,'Черновик');assert.equal(control.isConnected,true);
+ Object.assign(canvas,{clientWidth:900,clientHeight:800});await v.window.emit('resize');assert.equal(engine.G.rects.worker.x,wide);assert.equal(v.document.activeElement,control);assert.equal(control.value,'Черновик');
+});

diff --git a/packages/api/src/sidebar-v2-ui.test.ts b/packages/api/src/sidebar-v2-ui.test.ts
@@ -125,3 +125,13 @@ test('TS-44 rebase: keyboard opens the TS-43 project folder once and preserves i
  await row.emit('keydown',{key:'Enter',preventDefault(){}});assert.equal(row.getAttribute('aria-expanded'),'true');assert.equal(v.find('[data-ps2-project-chats="/b"] [data-pin-chat="b1"]').dataset.pinPath,'/b');
  await row.emit('keydown',{key:' ',preventDefault(){}});assert.equal(row.getAttribute('aria-expanded'),'false');assert.equal(v.document.querySelector('[data-ps2-project-chats="/b"]'),null);
 });
+
+
+test('TS-44 r2: sidebar redraw keeps focus on its project/chat identity, never a foreign chat with the same id',async()=>{
+ const v=view(),chat={id:'same-id',pane:'worker',title:'Первый чат',active:true};
+ v.context.PS2.setData({project:{path:'/a',name:'A'},chats:[chat]});v.find('[data-chat="same-id"]').focus();
+ v.context.PS2.setInbox({need:1,info:1});assert.equal(v.document.activeElement,v.find('[data-chat="same-id"]'));
+ v.context.PS2.setData({chats:[{id:'second',pane:'reviewer',title:'Соседний'},chat]});const current=v.find('[data-chat="same-id"]');assert.equal(v.document.activeElement,current);
+ let clicks=0;(current as any).click=()=>current.emit('click');current.addEventListener('click',()=>clicks++);await current.emit('keydown',{key:'Enter'});assert.equal(clicks,1);
+ v.context.PS2.setData({project:{path:'/b',name:'B'},chats:[chat]});assert.notEqual(v.document.activeElement,v.find('[data-chat="same-id"]'));
+});

diff --git a/ui/sketches/disarto/sidebar-v2.css b/ui/sketches/disarto/sidebar-v2.css
@@ -331,6 +331,7 @@
 .ps2-root .ps2-tabs span b.dim{background:transparent;color:var(--ink3);border:1px dashed var(--line2)}
 .ps2-root .ps2-tbar{display:flex;align-items:center;gap:10px;height:44px;padding:0 14px;border-bottom:1px solid var(--line);font-size:12.5px;color:var(--ink2);flex:none;white-space:nowrap}
 .ps2-root .ps2-tbar b{color:var(--ink);font-weight:500}.ps2-root .ps2-tbar .m{font:10px var(--mono);letter-spacing:.06em;text-transform:uppercase;color:var(--ink3)}.ps2-root .ps2-tbar .r{margin-left:auto;display:flex;align-items:center;gap:8px}
+.ps2-root .ps2-tbar>.m{flex:1 1 0;min-width:0;overflow:hidden;text-overflow:ellipsis}.ps2-root .ps2-tbar>.st{flex:0 1 auto;min-width:0;overflow:hidden;text-overflow:ellipsis}.ps2-root .ps2-tbar>.r{flex-shrink:0}
 .ps2-root .ps2-tbar .btn{cursor:pointer}.ps2-root .ps2-tbar .btn svg{width:13px;height:13px}.ps2-root .ps2-tbar .btn.dis{color:var(--ink3);cursor:default}
 
 
@@ -378,3 +379,5 @@ html.ps2-root[data-ps2-panel="closed"]:not([data-m]) .frame>.stage{grid-template
   html.ps2-root[data-m] .ps2-top .r{gap:6px}
   html.ps2-root[data-m] .ps2-top .r>span:last-child{display:none}
 }
+
+@media(min-width:760px) and (max-width:1100px){.ps2-root .ps2-tbar .tc-action-text{display:none}}
